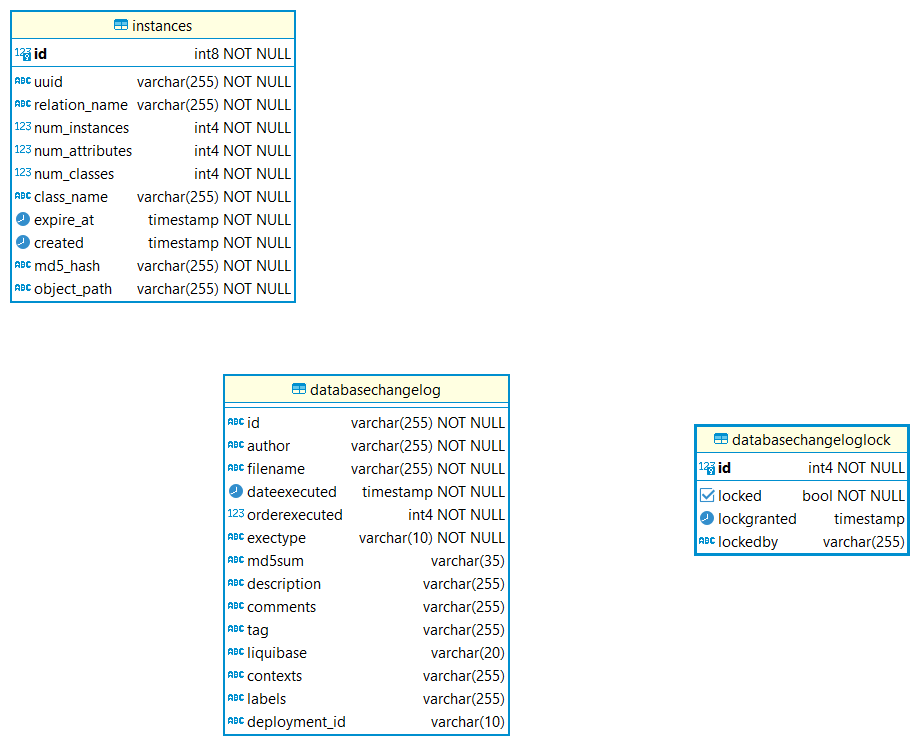
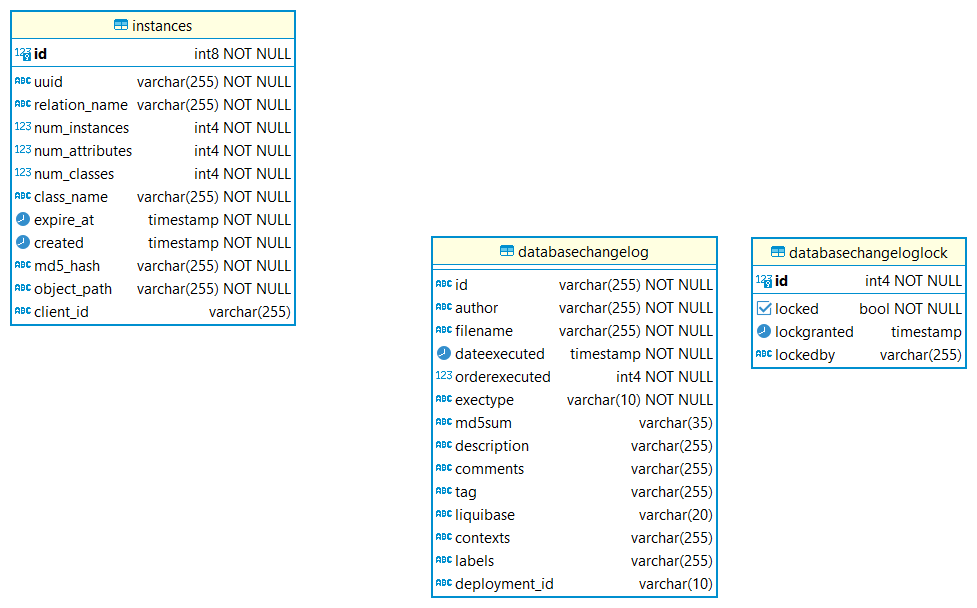
ECS-37 impl training data cache in eca-data-loader

Changed region(s): [[0.0, 0.0, 1.0, 1.0]]

diff --git a/eca-data-loader/src/main/java/com/ecaservice/data/loader/service/UploadInstancesService.java b/eca-data-loader/src/main/java/com/ecaservice/data/loader/service/UploadInstancesService.java
@@ -45,6 +45,7 @@ public class UploadInstancesService {
     private final MinioStorageService minioStorageService;
     private final ObjectMapper objectMapper;
     private final InstancesValidationService instancesValidationService;
+    private final UserService userService;
     private final InstancesRepository instancesRepository;
 
     /**
@@ -60,20 +61,28 @@ public class UploadInstancesService {
                     instancesFile.getOriginalFilename()));
         }
         try {
+            String clientId = userService.getCurrentUser();
             byte[] jsonData = loadData(instancesFile);
-            InstancesModel instancesModel = objectMapper.readValue(jsonData, InstancesModel.class);
-            instancesValidationService.validate(instancesModel);
-            String uuid = UUID.randomUUID().toString();
-            String objectPath = String.format(INSTANCES_OBJECT_PATH_FORMAT, uuid);
             String md5Hash = DigestUtils.md5DigestAsHex(jsonData);
-            log.info("Starting to upload instances file [{}] with uuid [{}], object path [{}]",
-                    instancesFile.getOriginalFilename(), uuid, objectPath);
-            uploadInstancesToS3(objectPath, jsonData);
-            var instancesEntity = createAndSaveInstancesEntity(uuid, objectPath, md5Hash, instancesModel);
-            log.info("Instances file [{}] has been uploaded with uuid [{}], object path [{}]",
-                    instancesFile.getOriginalFilename(), uuid, objectPath);
+            var instancesEntity = instancesRepository.findByClientIdAndMd5Hash(clientId, md5Hash);
+            if (instancesEntity != null) {
+                log.info(
+                        "Instances file [{}] with md5 hash [{}] is already uploaded for client id [{}]. Instances uuid [{}]",
+                        instancesFile.getOriginalFilename(), md5Hash, clientId, instancesEntity.getUuid());
+            } else {
+                InstancesModel instancesModel = objectMapper.readValue(jsonData, InstancesModel.class);
+                instancesValidationService.validate(instancesModel);
+                String uuid = UUID.randomUUID().toString();
+                String objectPath = String.format(INSTANCES_OBJECT_PATH_FORMAT, uuid);
+                log.info("Starting to upload instances file [{}] with uuid [{}], md5 hash [{}] object path [{}]",
+                        instancesFile.getOriginalFilename(), uuid, md5Hash, objectPath);
+                uploadInstancesToS3(objectPath, jsonData);
+                instancesEntity = createAndSaveInstancesEntity(uuid, objectPath, md5Hash, clientId, instancesModel);
+                log.info("Instances file [{}] has been uploaded with uuid [{}], md5 hash [{}] object path [{}]",
+                        instancesFile.getOriginalFilename(), uuid, md5Hash, objectPath);
+            }
             return UploadInstancesResponseDto.builder()
-                    .uuid(uuid)
+                    .uuid(instancesEntity.getUuid())
                     .md5Hash(md5Hash)
                     .expireAt(instancesEntity.getExpireAt())
                     .build();
@@ -91,6 +100,7 @@ public class UploadInstancesService {
     private InstancesEntity createAndSaveInstancesEntity(String uuid,
                                                          String objectPath,
                                                          String md5Hash,
+                                                         String clientId,
                                                          InstancesModel instancesModel) {
         var instancesEntity = new InstancesEntity();
         instancesEntity.setRelationName(instancesModel.getRelationName());
@@ -108,6 +118,7 @@ public class UploadInstancesService {
         instancesEntity.setUuid(uuid);
         instancesEntity.setObjectPath(objectPath);
         instancesEntity.setMd5Hash(md5Hash);
+        instancesEntity.setClientId(clientId);
         instancesEntity.setExpireAt(LocalDateTime.now().plusDays(appProperties.getInstancesExpireDays()));
         instancesEntity.setCreated(LocalDateTime.now());
         return instancesRepository.save(instancesEntity);

diff --git a/eca-data-loader/src/test/java/com/ecaservice/data/loader/service/UploadInstancesServiceTest.java b/eca-data-loader/src/test/java/com/ecaservice/data/loader/service/UploadInstancesServiceTest.java
@@ -27,6 +27,7 @@ import static org.assertj.core.api.Assertions.assertThat;
 import static org.junit.jupiter.api.Assertions.assertThrows;
 import static org.mockito.ArgumentMatchers.any;
 import static org.mockito.Mockito.doThrow;
+import static org.mockito.Mockito.when;
 
 /**
  * Unit tests for checking {@link UploadInstancesService} functionality.
@@ -37,8 +38,12 @@ import static org.mockito.Mockito.doThrow;
 @Import({UploadInstancesService.class, ObjectMapper.class, AppProperties.class})
 class UploadInstancesServiceTest extends AbstractJpaTest {
 
+    private static final String USER = "user";
+
     @MockBean
     private MinioStorageService minioStorageService;
+    @MockBean
+    private UserService userService;
 
     @Autowired
     private InstancesRepository instancesRepository;
@@ -53,6 +58,7 @@ class UploadInstancesServiceTest extends AbstractJpaTest {
 
     @Test
     void testUploadInstances() throws IOException {
+        when(userService.getCurrentUser()).thenReturn(USER);
         MockMultipartFile multipartFile = createInstancesMockMultipartFile();
         InstancesModel instancesModel = loadInstances();
         var uploadInstancesResponseDto = uploadInstancesService.uploadInstances(multipartFile);
@@ -67,7 +73,17 @@ class UploadInstancesServiceTest extends AbstractJpaTest {
         assertThat(actual.getObjectPath()).isNotNull();
         assertThat(actual.getMd5Hash()).isNotNull();
         assertThat(actual.getExpireAt()).isNotNull();
+        assertThat(actual.getClientId()).isEqualTo(USER);
         assertNumClasses(instancesModel, actual);
+    }
+
+    @Test
+    void testUploadExistingInstances() {
+        when(userService.getCurrentUser()).thenReturn(USER);
+        MockMultipartFile multipartFile = createInstancesMockMultipartFile();
+        uploadInstancesService.uploadInstances(multipartFile);
+        uploadInstancesService.uploadInstances(multipartFile);
+        assertThat(instancesRepository.count()).isOne();
     }
 
     @Test

diff --git a/eca-data-loader/src/main/java/com/ecaservice/data/loader/entity/InstancesEntity.java b/eca-data-loader/src/main/java/com/ecaservice/data/loader/entity/InstancesEntity.java
@@ -7,6 +7,7 @@ import javax.persistence.Entity;
 import javax.persistence.GeneratedValue;
 import javax.persistence.Id;
 import javax.persistence.Table;
+import javax.persistence.UniqueConstraint;
 import java.time.LocalDateTime;
 
 /**
@@ -16,7 +17,10 @@ import java.time.LocalDateTime;
  */
 @Data
 @Entity
-@Table(name = "instances")
+@Table(name = "instances",uniqueConstraints = {
+        @UniqueConstraint(columnNames = {"client_id", "md5_hash"},
+                name = "instances_client_id_md5_hash_unique_index")
+})
 public class InstancesEntity {
 
     @Id
@@ -76,6 +80,12 @@ public class InstancesEntity {
      */
     @Column(name = "md5_hash", nullable = false)
     private String md5Hash;
+
+    /**
+     * Username (client id)
+     */
+    @Column(name = "client_id")
+    private String clientId;
 
     /**
      * Instances object path

diff --git a/eca-data-loader/src/main/java/com/ecaservice/data/loader/controller/external/InstancesExternalApiController.java b/eca-data-loader/src/main/java/com/ecaservice/data/loader/controller/external/InstancesExternalApiController.java
@@ -94,6 +94,8 @@ public class InstancesExternalApiController {
             @Parameter(description = "Training data file", required = true)
             @RequestParam MultipartFile instancesFile) {
         log.info("Request to upload train data file [{}]", instancesFile.getOriginalFilename());
-        return uploadInstancesService.uploadInstances(instancesFile);
+        var uploadInstancesResponseDto = uploadInstancesService.uploadInstances(instancesFile);
+        log.info("Request to upload train data file [{}] has been processed", instancesFile.getOriginalFilename());
+        return uploadInstancesResponseDto;
     }
 }

diff --git a/eca-data-loader/src/main/java/com/ecaservice/data/loader/repository/InstancesRepository.java b/eca-data-loader/src/main/java/com/ecaservice/data/loader/repository/InstancesRepository.java
@@ -26,6 +26,15 @@ public interface InstancesRepository extends JpaRepository<InstancesEntity, Long
     Optional<InstancesEntity> findByUuid(String uuid);
 
     /**
+     * Finds instances by client id and md5 hash.
+     *
+     * @param clientId - client id
+     * @param md5Hash  - md5 hash
+     * @return instances entity
+     */
+    InstancesEntity findByClientIdAndMd5Hash(String clientId, String md5Hash);
+
+    /**
      * Finds not deleted instances ids.
      *
      * @param dateTime - date time threshold value

diff --git a/eca-data-loader/src/main/java/com/ecaservice/data/loader/service/UserService.java b/eca-data-loader/src/main/java/com/ecaservice/data/loader/service/UserService.java
@@ -1,0 +1,22 @@
+package com.ecaservice.data.loader.service;
+
+import org.springframework.security.core.context.SecurityContextHolder;
+import org.springframework.stereotype.Service;
+
+/**
+ * User service.
+ *
+ * @author Roman Batygin
+ */
+@Service
+public class UserService {
+
+    /**
+     * Gets current authenticated user.
+     *
+     * @return user login
+     */
+    public String getCurrentUser() {
+        return SecurityContextHolder.getContext().getAuthentication().getName();
+    }
+}
